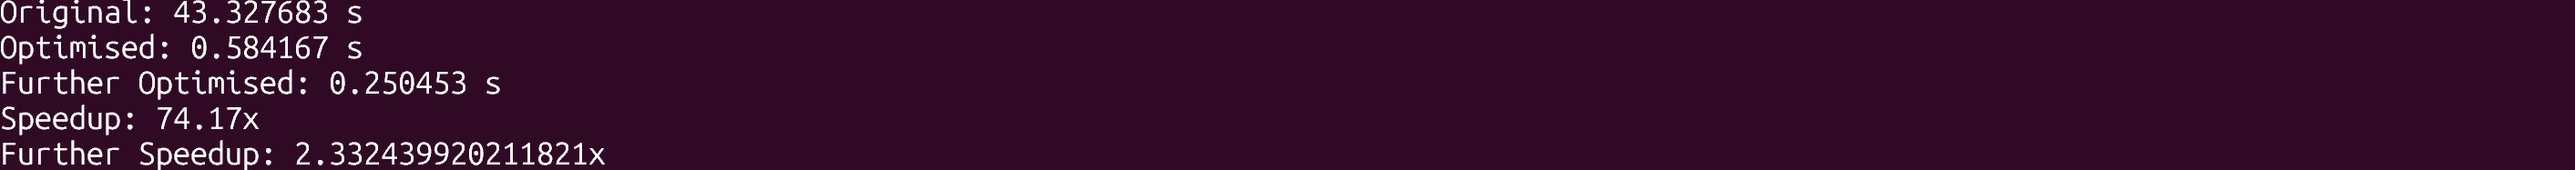
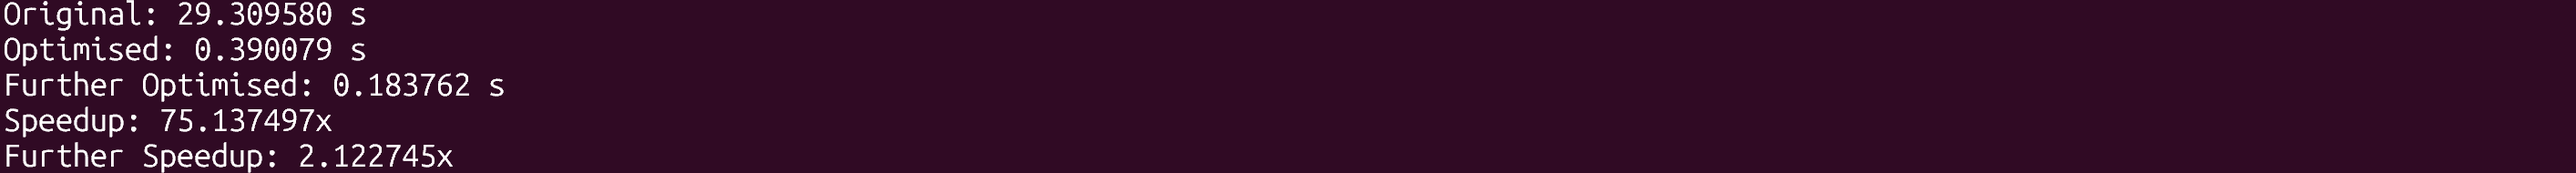
Updated and recomputed test script.

diff --git a/code/calc3DimTest.py b/code/calc3DimTest.py
@@ -23,5 +23,5 @@ t3 = timeit.timeit(
 print(f"Original: {t1/10:.6f} s")
 print(f"Optimised: {t2/10:.6f} s")
 print(f"Further Optimised: {t3/10:.6f} s")
-print(f"Speedup: {t1/t2:.2f}x")
-print(f"Further Speedup: {t2/t3}x")
+print(f"Speedup: {t1/t2:.6f}x")
+print(f"Further Speedup: {t2/t3:.6f}x")
